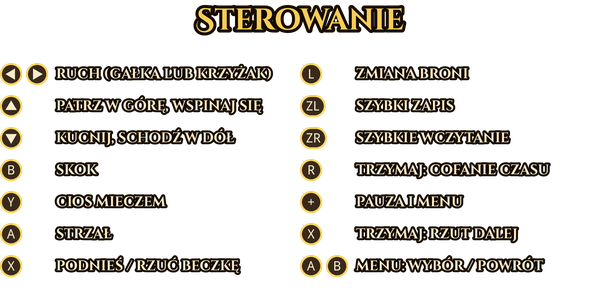
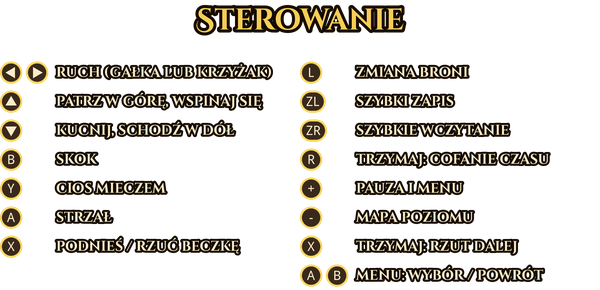
Level map on Select / Minus (Tab): see-through automap
Collision geometry is recorded as the level's tiles are added to the
physics world and drawn at 1:8 around the player, with treasure still to
collect, the level end and (in races) the other player or ghost.

Claude-Session: https://claude.ai/code/session_01HEeARedioTsvWC5PnAreDq

diff --git a/OpenClaw/Engine/UserInterface/Minimap.cpp b/OpenClaw/Engine/UserInterface/Minimap.cpp
@@ -1,0 +1,192 @@
+#include "Minimap.h"
+
+#include <algorithm>
+#include <vector>
+
+#include "../GameApp/BaseGameApp.h"
+#include "../GameApp/BaseGameLogic.h"
+#include "../Actor/Actor.h"
+#include "../Actor/Components/PositionComponent.h"
+#include "../Actor/Components/PickupComponents/PickupComponent.h"
+#include "../Race/Race.h"
+
+namespace
+{
+    // One map pixel = this many level pixels.
+    const double kScale = 8.0;
+
+    struct MapRect
+    {
+        float x, y, w, h;
+        uint8_t type;
+    };
+
+    // Sorted by x when the map is first drawn, so drawing can skip to the
+    // part of the level that is on screen.
+    std::vector<MapRect> g_Rects;
+    bool g_Sorted = false;
+    float g_MaxWidth = 0.0f;
+    bool g_Visible = false;
+
+    // Treasure and level-end positions, refreshed a few times per second.
+    std::vector<Point> g_Treasure;
+    std::vector<Point> g_Exits;
+    uint32_t g_LastScan = 0;
+
+    void Scan()
+    {
+        g_Treasure.clear();
+        g_Exits.clear();
+        BaseGameLogic* pLogic = g_pApp->GetGameLogic();
+        if (!pLogic) return;
+        for (const auto& kv : pLogic->GetActorMap())
+        {
+            const StrongActorPtr& pActor = kv.second;
+            if (!pActor || !pActor->GetPositionComponent()) continue;
+            if (shared_ptr<TreasurePickupComponent> pTreasure =
+                    MakeStrongPtr(pActor->GetComponent<TreasurePickupComponent>(TreasurePickupComponent::g_Name)))
+            {
+                if (!pTreasure->IsPickedUp()) g_Treasure.push_back(pActor->GetPositionComponent()->GetPosition());
+            }
+            else if (MakeStrongPtr(pActor->GetComponent<EndLevelPickupComponent>(EndLevelPickupComponent::g_Name)))
+            {
+                g_Exits.push_back(pActor->GetPositionComponent()->GetPosition());
+            }
+        }
+    }
+
+    void FillDot(SDL_Renderer* r, double x, double y, int size)
+    {
+        SDL_Rect d = { (int)x - size / 2, (int)y - size / 2, size, size };
+        SDL_RenderFillRect(r, &d);
+    }
+}
+
+namespace Minimap
+{
+    void Reset()
+    {
+        g_Rects.clear();
+        g_Sorted = false;
+        g_MaxWidth = 0.0f;
+        g_Treasure.clear();
+        g_Exits.clear();
+        g_LastScan = 0;
+    }
+
+    void AddGeometry(const Point& position, const Point& size, int collisionType)
+    {
+        if (collisionType == CollisionType_None) return;
+        g_Rects.push_back(MapRect{ (float)position.x, (float)position.y, (float)size.x, (float)size.y, (uint8_t)collisionType });
+        g_MaxWidth = std::max(g_MaxWidth, (float)size.x);
+        g_Sorted = false;
+    }
+
+    void Toggle() { g_Visible = !g_Visible; }
+    void SetVisible(bool visible) { g_Visible = visible; }
+    bool IsVisible() { return g_Visible; }
+
+    void Render(SDL_Renderer* r, const SDL_Rect& viewport, uint32_t centerActorId)
+    {
+        if (!g_Visible) return;
+        BaseGameLogic* pLogic = g_pApp->GetGameLogic();
+        if (!pLogic) return;
+        StrongActorPtr pCenter = MakeStrongPtr(pLogic->VGetActor(centerActorId));
+        if (!pCenter || !pCenter->GetPositionComponent()) return;
+
+        if (!g_Sorted)
+        {
+            std::sort(g_Rects.begin(), g_Rects.end(), [](const MapRect& a, const MapRect& b) { return a.x < b.x; });
+            g_Sorted = true;
+        }
+        if (SDL_GetTicks() - g_LastScan > 400)
+        {
+            g_LastScan = SDL_GetTicks();
+            Scan();
+        }
+
+        const Point center = pCenter->GetPositionComponent()->GetPosition();
+        // Level -> screen
+        const double ox = viewport.x + viewport.w / 2.0 - center.x / kScale;
+        const double oy = viewport.y + viewport.h / 2.0 - center.y / kScale;
+        const double left = center.x - (viewport.w / 2.0) * kScale;
+        const double right = center.x + (viewport.w / 2.0) * kScale;
+        const double top = center.y - (viewport.h / 2.0) * kScale;
+        const double bottom = center.y + (viewport.h / 2.0) * kScale;
+
+        SDL_SetRenderDrawBlendMode(r, SDL_BLENDMODE_BLEND);
+
+        // Slight darkening so the map reads over bright backgrounds.
+        SDL_SetRenderDrawColor(r, 0, 0, 0, 70);
+        SDL_RenderFillRect(r, &viewport);
+
+        // Level geometry
+        auto first = std::lower_bound(g_Rects.begin(), g_Rects.end(), (float)(left - g_MaxWidth),
+            [](const MapRect& a, float x) { return a.x < x; });
+        for (auto it = first; it != g_Rects.end() && it->x <= right; ++it)
+        {
+            const MapRect& g = *it;
+            if (g.x + g.w < left || g.y > bottom || g.y + g.h < top) continue;
+            switch (g.type)
+            {
+                case CollisionType_Solid:  SDL_SetRenderDrawColor(r, 235, 215, 160, 150); break;
+                case CollisionType_Ground: SDL_SetRenderDrawColor(r, 200, 230, 255, 150); break;
+                case CollisionType_Climb:  SDL_SetRenderDrawColor(r, 190, 140, 70, 170); break;
+                case CollisionType_Death:  SDL_SetRenderDrawColor(r, 230, 60, 40, 170); break;
+                default: continue;
+            }
+            SDL_Rect d = { (int)(ox + g.x / kScale), (int)(oy + g.y / kScale),
+                           std::max(1, (int)(g.w / kScale + 0.5)), std::max(1, (int)(g.h / kScale + 0.5)) };
+            // Platforms you can jump through are thin lines in the original
+            // too; keep them at least one pixel high.
+            SDL_RenderFillRect(r, &d);
+        }
+
+        // Treasure (gold) and the end of the level (green)
+        SDL_SetRenderDrawColor(r, 255, 210, 40, 210);
+        for (const Point& p : g_Treasure)
+        {
+            if (p.x < left || p.x > right || p.y < top || p.y > bottom) continue;
+            FillDot(r, ox + p.x / kScale, oy + p.y / kScale, 3);
+        }
+        SDL_SetRenderDrawColor(r, 80, 255, 120, 230);
+        for (const Point& p : g_Exits)
+        {
+            if (p.x < left || p.x > right || p.y < top || p.y > bottom) continue;
+            FillDot(r, ox + p.x / kScale, oy + p.y / kScale, 7);
+        }
+
+        // Captains: the one this view follows blinks; in a race the other
+        // one (or the network ghost) is shown in blue.
+        auto drawActor = [&](uint32_t id, SDL_Color c, int size)
+        {
+            StrongActorPtr p = MakeStrongPtr(pLogic->VGetActor(id));
+            if (!p || !p->GetPositionComponent()) return;
+            Point pos = p->GetPositionComponent()->GetPosition();
+            SDL_SetRenderDrawColor(r, 0, 0, 0, 200);
+            FillDot(r, ox + pos.x / kScale, oy + pos.y / kScale, size + 2);
+            SDL_SetRenderDrawColor(r, c.r, c.g, c.b, c.a);
+            FillDot(r, ox + pos.x / kScale, oy + pos.y / kScale, size);
+        };
+        if (Race::IsActive())
+        {
+            for (int i = 0; i < 2; ++i)
+            {
+                uint32_t id = Race::GetPlayerActor(i);
+                if (id && id != centerActorId) drawActor(id, SDL_Color{ 120, 170, 255, 230 }, 5);
+            }
+            if (uint32_t ghost = Race::GetGhostActor())
+            {
+                drawActor(ghost, SDL_Color{ 120, 170, 255, 200 }, 5);
+            }
+        }
+        if ((SDL_GetTicks() / 300) % 2 == 0)
+        {
+            drawActor(centerActorId, SDL_Color{ 255, 255, 255, 255 }, 6);
+        }
+        else
+        {
+            drawActor(centerActorId, SDL_Color{ 255, 80, 60, 255 }, 6);
+        }
+    }
+}

diff --git a/OpenClaw/Engine/UserInterface/HumanView.cpp b/OpenClaw/Engine/UserInterface/HumanView.cpp
@@ -21,6 +21,7 @@
 #include "../Util/PrimeSearch.h"
 #include "ScoreScreen/EndLevelScoreScreen.h"
 #include "../Race/Race.h"
+#include "Minimap.h"
 #include "../Race/RaceLobby.h"
 #include "../Scene/HUDSceneNode.h"
 
@@ -116,10 +117,11 @@ void HumanView::VOnRender(uint32 msDiff)
                     continue;
                 }
                 screenElement->VOnRender(msDiff);
-                if (isScene && Race::IsActive())
+                if (isScene && (Race::IsActive() || Minimap::IsVisible()))
                 {
                     Point scale = g_pApp->GetScale();
                     SDL_Rect full = { 0, 0, (int)(g_pApp->GetWindowSize().x / scale.x), (int)(g_pApp->GetWindowSize().y / scale.y) };
+                    Minimap::Render(renderer, full, m_ActorId);
                     Race::RenderOverlay(renderer, 0, full);
                 }
             }
@@ -233,6 +235,15 @@ bool HumanView::VOnEvent(SDL_Event& evt)
             if (evt.key.repeat == 0)
             {
                 bool ingameMenuVisible = m_pIngameMenu && m_pIngameMenu->VIsVisible();
+
+                // Level map (Tab)
+                if (evt.key.keysym.sym == SDLK_TAB &&
+                    g_pApp->GetGameLogic()->GetGameState() == GameState_IngameRunning &&
+                    !ingameMenuVisible)
+                {
+                    Minimap::Toggle();
+                    return true;
+                }
 
                 if (SDL_GetScancodeFromKey(evt.key.keysym.sym) == SDL_SCANCODE_ESCAPE &&
                     g_pApp->GetGameLogic()->GetGameState() == GameState_IngameRunning &&
@@ -389,6 +400,14 @@ bool HumanView::VOnGamepadEvent(const AppEvent& evt)
                     }
                     return true;
                 }
+            }
+
+            // Level map (Select / Minus)
+            if (!menuActive && evt.gamepadButton.button == GamepadButton::Back &&
+                gameState == GameState_IngameRunning)
+            {
+                Minimap::Toggle();
+                return true;
             }
 
             // Forward to gamepad handler for in-game controls (only if no menu active)
@@ -1579,6 +1598,7 @@ void HumanView::RenderSplitScene(SDL_Renderer* pRenderer)
         m_pScene->SetCamera(cameras[i]);
         m_pScene->OnRender();
         SDL_Rect local = { 0, 0, views[i].w, views[i].h };
+        Minimap::Render(pRenderer, local, i == 0 ? m_ActorId : m_SecondActorId);
         Race::RenderOverlay(pRenderer, i, local);
     }
     SDL_RenderSetViewport(pRenderer, NULL);

diff --git a/OpenClaw/Engine/UserInterface/Minimap.h b/OpenClaw/Engine/UserInterface/Minimap.h
@@ -1,0 +1,30 @@
+#pragma once
+
+// Level map drawn over the game, see-through like the automap in Diablo
+// (toggled with Select / Minus, Tab on the keyboard). Shows the level's
+// solid ground, ladders and death zones, the Captain(s), the treasure still
+// lying around and the end of the level, centered on the player.
+//
+// The geometry is collected while the level's collision tiles are created
+// (ClawPhysics::VAddStaticGeometry), so it matches what Claw can stand on.
+
+#include <cstdint>
+
+#include <SDL2/SDL.h>
+
+#include "../Util/Point.h"
+
+namespace Minimap
+{
+    // New level: forget the old geometry.
+    void Reset();
+    // A static collision rectangle of the level (collisionType: CollisionType).
+    void AddGeometry(const Point& position, const Point& size, int collisionType);
+
+    void Toggle();
+    void SetVisible(bool visible);
+    bool IsVisible();
+
+    // Draws the map into `viewport` (local coordinates), centered on the actor.
+    void Render(SDL_Renderer* pRenderer, const SDL_Rect& viewport, uint32_t centerActorId);
+}

diff --git a/OpenClaw/Engine/Physics/ClawPhysics.cpp b/OpenClaw/Engine/Physics/ClawPhysics.cpp
@@ -1,4 +1,5 @@
 #include "ClawPhysics.h"
+#include "../UserInterface/Minimap.h"
 #include "../SaveState/StateArchive.h"
 #include "../Scene/SceneNodes.h"
 #include "../Events/EventMgr.h"
@@ -556,6 +557,9 @@ void ClawPhysics::VAddStaticGeometry(const Point& position, const Point& size, C
     {
         return;
     }
+
+    // The level map (Select / Minus) draws the same geometry.
+    Minimap::AddGeometry(position, size, (int)collisionType);
 
     // Convert pixel position and size to Box2D meters
     b2Vec2 b2Position = PixelsToMeters(PointToB2Vec2(position));

diff --git a/OpenClaw/Engine/GameApp/BaseGameLogic.cpp b/OpenClaw/Engine/GameApp/BaseGameLogic.cpp
@@ -34,6 +34,7 @@
 #include "../UserInterface/TitleScroll.h"
 #include "../SaveState/SaveStateManager.h"
 #include "../Race/Race.h"
+#include "../UserInterface/Minimap.h"
 
 #include "../Physics/ClawPhysics.h"
 
@@ -423,6 +424,8 @@ bool BaseGameLogic::VLoadGame(const char* xmlLevelResource)
 {
     // Save states belong to one level session.
     SaveStateManager::Get()->Reset();
+    // The level map is rebuilt from the new level's collision tiles.
+    Minimap::Reset();
 
     // Stop all audio
     g_pApp->GetAudio()->StopAllSounds();

diff --git a/scripts/make_controls_image.py b/scripts/make_controls_image.py
@@ -39,6 +39,7 @@ ROWS_RIGHT = [
     (["ZR"], "szybkie wczytanie"),
     (["R"], "trzymaj: cofanie czasu"),
     (["+"], "pauza i menu"),
+    (["-"], "mapa poziomu"),
     (["X"], "trzymaj: rzut dalej"),
     (["A", "B"], "menu: wybór / powrót"),
 ]
@@ -90,7 +91,7 @@ def column(draw, x0, y0, rows, label_w):
     word_font = font(14)
     desc_font = font(14)
     y = y0
-    step = 32 * S
+    step = 29 * S
     for labels, desc in rows:
         cy = y + step / 2
         x = x0

diff --git a/OpenClaw/Engine/Race/Race.h b/OpenClaw/Engine/Race/Race.h
@@ -58,6 +58,8 @@ namespace Race
 
     // Captains taking part (actor GUIDs; 0 when absent). Index 0 = player 1.
     uint32_t GetPlayerActor(int index);
+    // Network race: the opponent's ghost (0 when none).
+    uint32_t GetGhostActor();
     // 0 / 1 for a racing Captain, -1 otherwise.
     int PlayerIndexOf(uint32_t actorId);
 

diff --git a/OpenClaw/Engine/Race/Race.cpp b/OpenClaw/Engine/Race/Race.cpp
@@ -439,6 +439,11 @@ namespace Race
         return (index >= 0 && index < 2) ? g_Players[index] : 0;
     }
 
+    uint32_t GetGhostActor()
+    {
+        return g_Active ? g_Ghost : 0;
+    }
+
     int PlayerIndexOf(uint32_t actorId)
     {
         if (!g_Active || actorId == 0) return -1;

diff --git a/OpenClaw/Engine/Actor/Components/PickupComponents/PickupComponent.h b/OpenClaw/Engine/Actor/Components/PickupComponents/PickupComponent.h
@@ -59,6 +59,9 @@ protected:
 private:
     int32 m_ScorePoints;
     bool m_IsPickedUp;
+public:
+    bool IsPickedUp() const { return m_IsPickedUp; }
+private:
 
     shared_ptr<PositionComponent> m_pPositionComponent;
     shared_ptr<ActorRenderComponent> m_pRenderComponent;

diff --git a/docs/DO_PRZETESTOWANIA.md b/docs/DO_PRZETESTOWANIA.md
@@ -32,6 +32,7 @@ Skrypty w repozytorium (uruchamiam je ja, generują grafiki):
 | Wyścig – podzielony ekran | Multiplayer → Podzielony ekran: ekran wyboru kontrolerów, wybór poziomu, odliczanie, dwie połówki ekranu, gracz 2 na drugim padzie, odrodzenie na własnym punkcie kontrolnym, meta i ekran wyników, płynność | nieprzetestowane |
 | Wyścig – przez sieć | Multiplayer → Przez sieć: Utwórz / Dołącz (dwie konsole lub dwa Ryujinxy), znalezienie wyścigu, odliczanie, duch rywala, meta, wyjście rywala / zerwanie połączenia | nieprzetestowane (sam moduł UDP sprawdzony na Linuksie) |
 | Pauza (+ / Start / Esc) | otwiera menu: Wróć do gry, Zakończ życie, Opcje, Pomoc, Zakończ grę; w wyścigu przez sieć świat się nie zatrzymuje | nieprzetestowane |
+| Mapa poziomu (− / Select / Tab) | półprzezroczysta mapa wokół gracza: podłoże, drabiny, kolce, skarby (złote), koniec poziomu (zielony), gracz (miga); w wyścigu drugi gracz / duch na niebiesko; czy skala 1:8 jest dobra | nieprzetestowane |
 | Gracz 2 po filmach / ekranach blokujących | czy drugi pad zostaje podłączony po filmie lub mapie tytułowej | nieprzetestowane |
 | Poziom 14, etap 1 | start, przeciwnicy, elementy poziomu | brak potwierdzenia |
 | Odsłanianie widoku na starcie poziomu | efekt od lewej do prawej | brak potwierdzenia |
